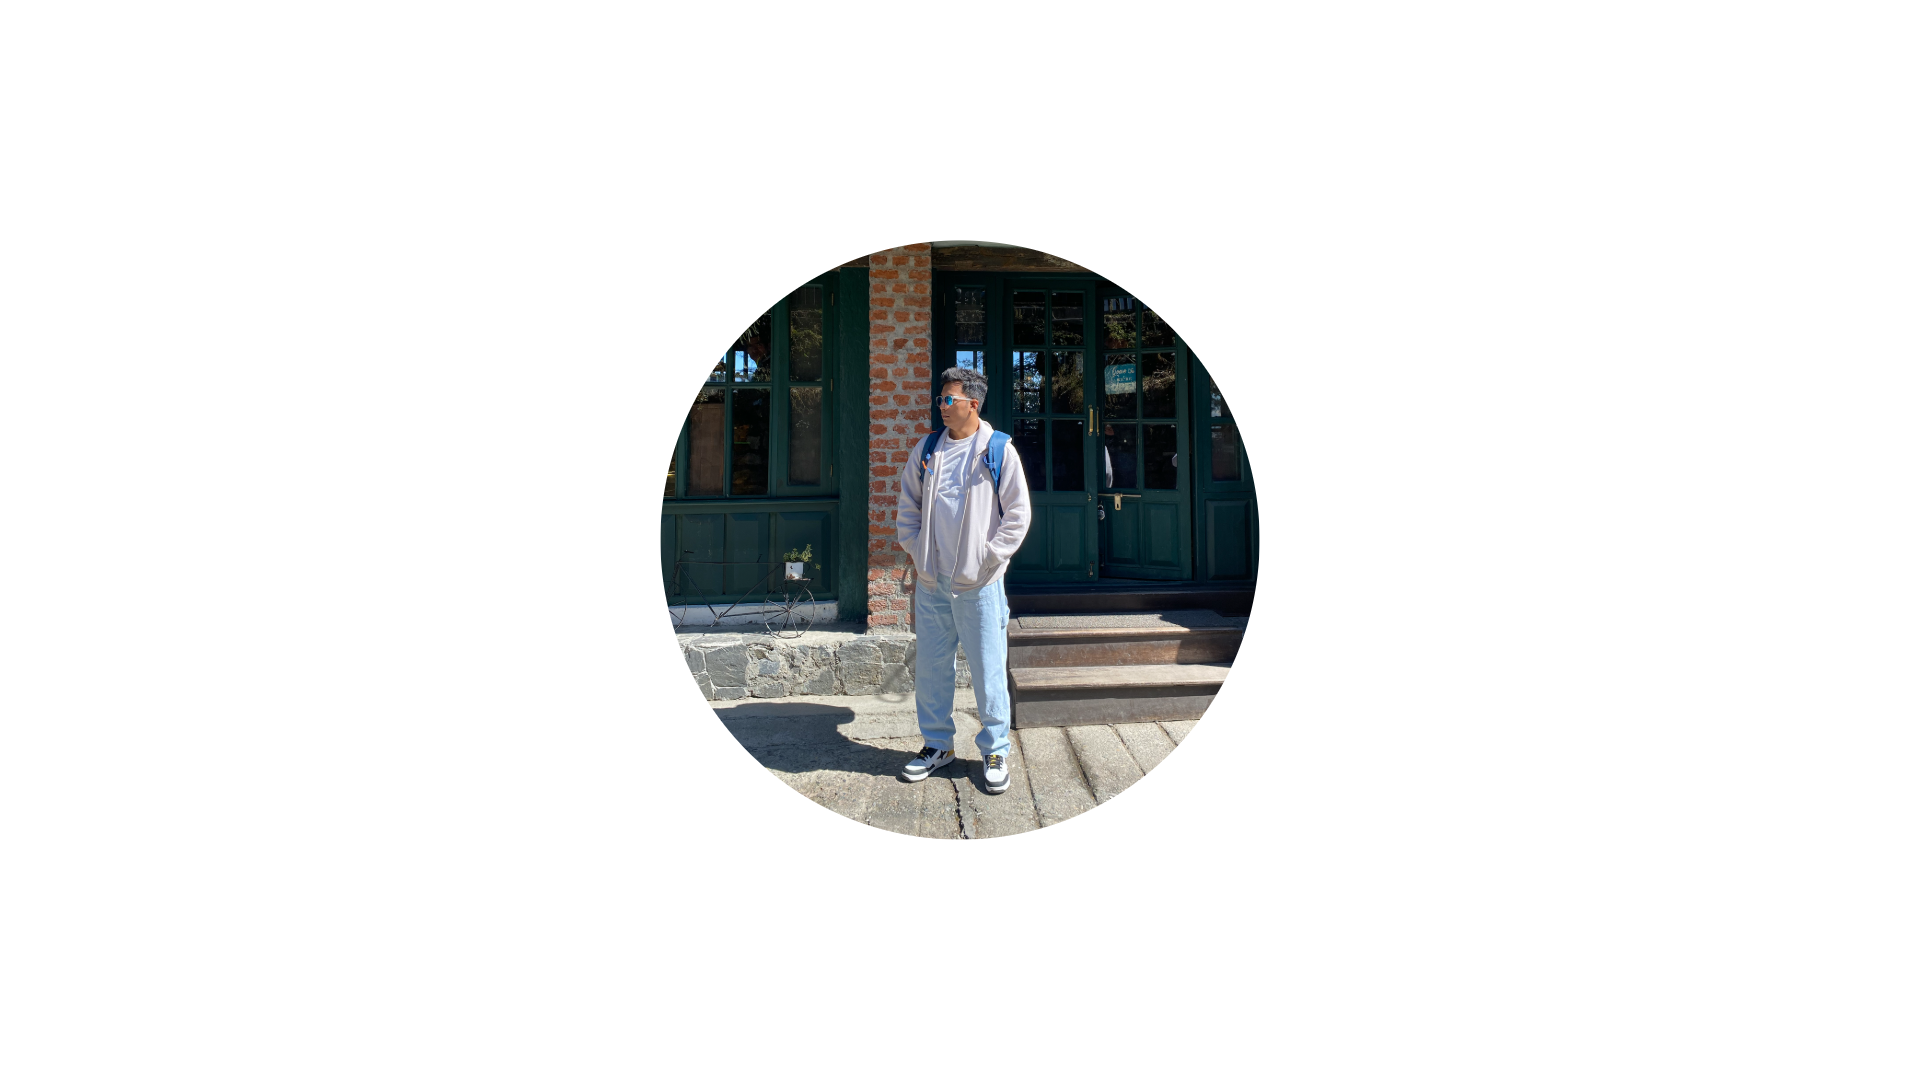
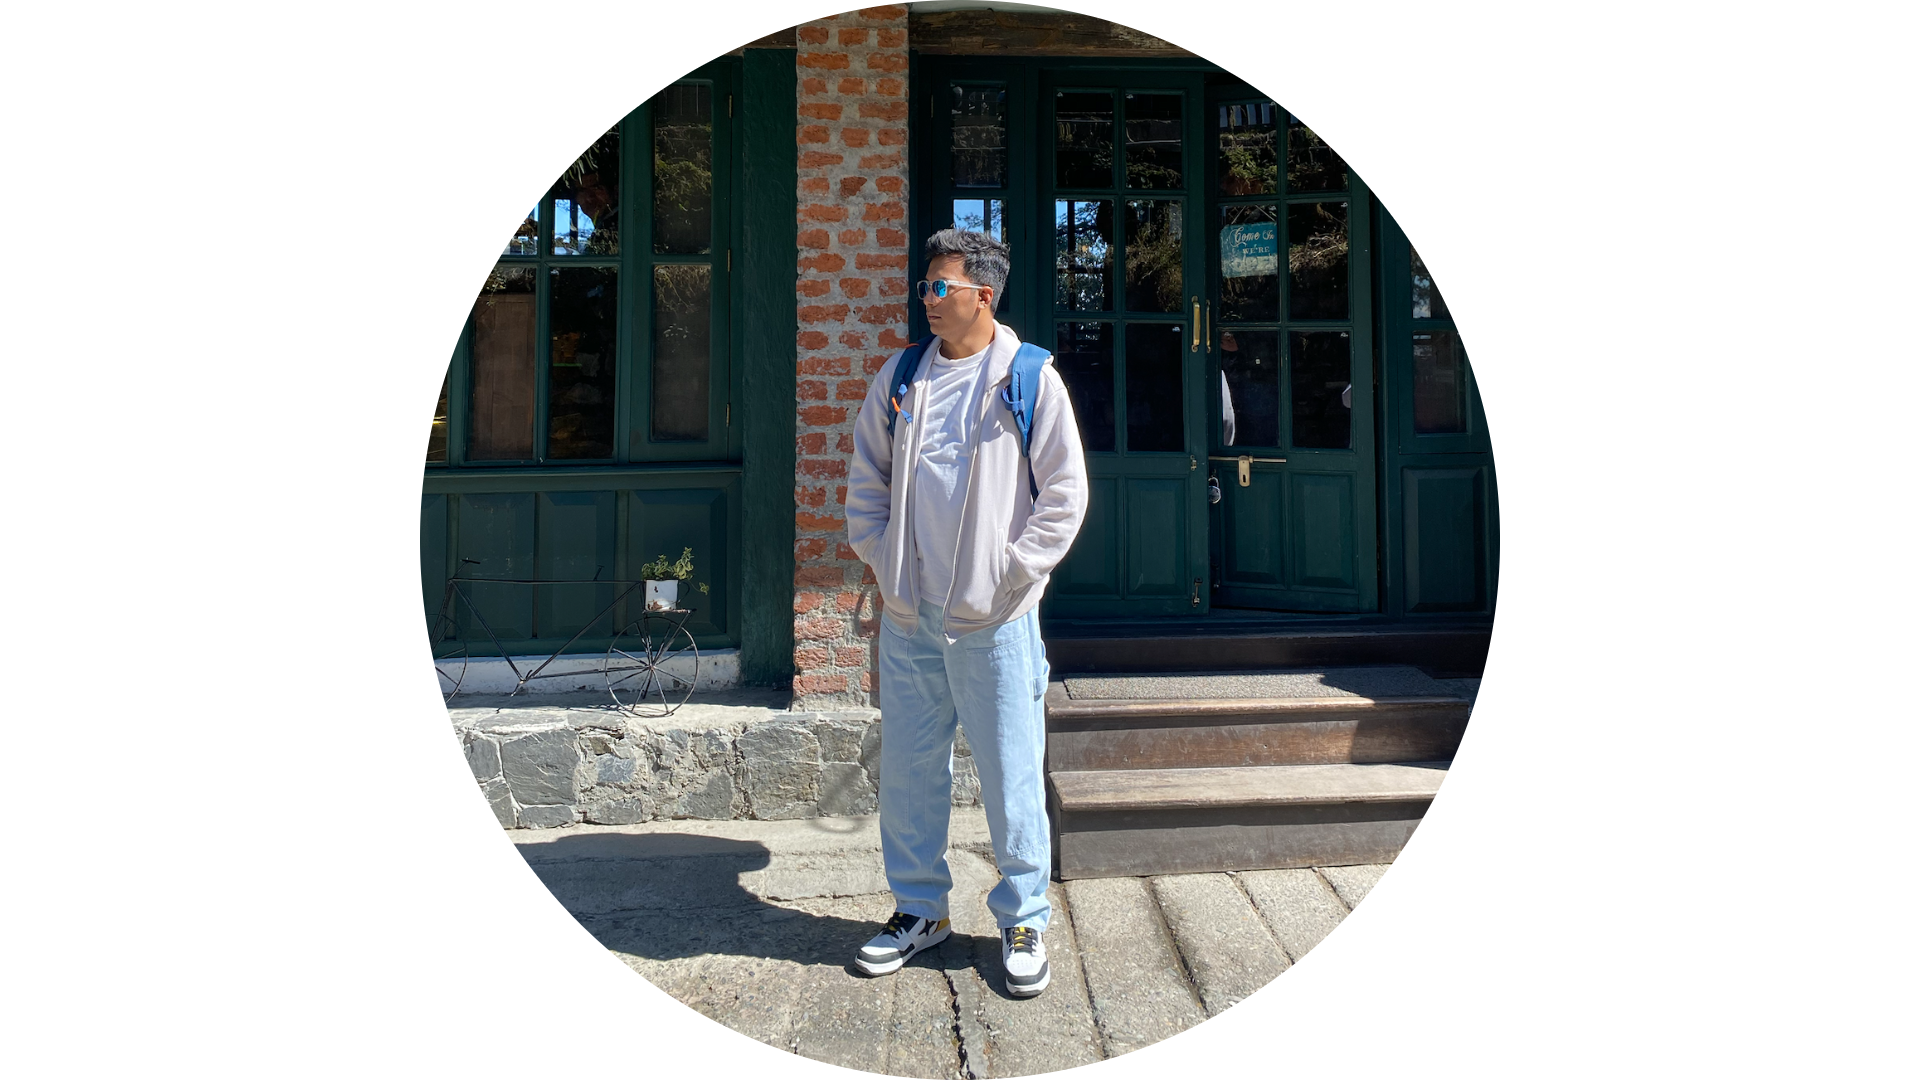
Add more metadata.

diff --git a/pages/index.tsx b/pages/index.tsx
@@ -15,6 +15,7 @@ export default function IndexPage({ node }: NodeBasicPageProps) {
       <Head>
         <title>Abhisek Mazumdar - Freelancer Drupal Developer</title>
         <link rel='icon' href='/icon.png'/>
+        <meta name="title" content="Abhisek Mazumdar - Freelancer Drupal Developer"></meta>
         <meta
           name="description"
           content="I'm a proud Drupal Developer based in Pune, India with 6+ years of experience in site building, backend development, theming, and also WordPress plugin dev. For the past 3 years, I have worked with Drupal distributions and profiles."
@@ -22,7 +23,12 @@ export default function IndexPage({ node }: NodeBasicPageProps) {
         <meta name="keywords" content="Abhisek, Mazumdar, Drupal, React, NextJS" />
         <meta property="og:title" content="Abhisek Mazumdar - Freelancer Drupal Developer" />
         <meta property="og:description" content="I'm a proud Drupal Developer based in Pune, India with 6+ years of experience in site building, backend development, theming, and also WordPress plugin dev. For the past 3 years, I have worked with Drupal distributions and profiles." />
-        <meta property="og:image" content="/icon.png" />
+        <meta property="og:image" content="/abhisek.jpg" />
+        <meta property="twitter:card" content="summary" />
+        <meta property="twitter:url" content="https://www.abhisek.xyz/" />
+        <meta property="twitter:title" content="Abhisek Mazumdar - Freelancer Drupal Developer" />
+        <meta property="twitter:description" content="I'm a proud Drupal Developer based in Pune, India with 6+ years of experience in site building, backend development, theming, and also WordPress plugin dev. For the past 3 years, I have worked with Drupal distributions and profiles." />
+        <meta property="twitter:image" content="/abhisek.jpg" />
       </Head>
       <div>
         <NodeBasicPage node={node} />

diff --git a/pages/[...slug].tsx b/pages/[...slug].tsx
@@ -24,7 +24,12 @@ export default function NodePage({ resource }: NodePageProps) {
         <link rel="icon" href="/icon.png" />
         <meta property="og:title" content={resource.title} />
         <meta property="og:description" content={resource.title} />
-        <meta property="og:image" content="/icon.png" />
+        <meta property="og:image" content="/abhisek.jpg" />
+        <meta property="twitter:card" content="summary" />
+        <meta property="twitter:url" content={`https://www.abhisek.xyz/${resource.id}`} />
+        <meta property="twitter:title" content={resource.title} />
+        <meta property="twitter:description" content={resource.title} />
+        <meta property="twitter:image" content="/abhisek.jpg" />
       </Head>
       {resource.type === "node--page" && <NodeBasicPage node={resource} />}
       {resource.type === "node--article" && <NodeArticle node={resource} />}

diff --git a/pages/thoughts.tsx b/pages/thoughts.tsx
@@ -18,7 +18,12 @@ export default function Thoughts({ nodes }: IndexPageProps) {
         <link rel='icon' href='/icon.png'/>
         <meta property="og:title" content="my latest thoughts - abhisek.xyz" />
         <meta property="og:description" content="Abhisek's console.log()." />
-        <meta property="og:image" content="/icon.png" />
+        <meta property="og:image" content="/abhisek.jpg" />
+        <meta property="twitter:card" content="summary" />
+        <meta property="twitter:url" content="https://www.abhisek.xyz/thoughts" />
+        <meta property="twitter:title" content="my latest thoughts - abhisek.xyz" />
+        <meta property="twitter:description" content="Abhisek's console.log()." />
+        <meta property="twitter:image" content="/abhisek.jpg" />
       </Head>
         <div>
           <h1 className="mb-10 text-6xl font-black">my latest thoughts</h1>

diff --git a/pages/uses.tsx b/pages/uses.tsx
@@ -18,7 +18,12 @@ export default function Use({ node }: NodeBasicPageProps) {
         <link rel='icon' href='/icon.png'/>
         <meta property="og:title" content="what I use - abhisek.xyz" />
         <meta property="og:description" content="Abhisek showing off his nerd side." />
-        <meta property="og:image" content="/icon.png" />
+        <meta property="og:image" content="/abhisek.jpg" />
+        <meta property="twitter:card" content="summary" />
+        <meta property="twitter:url" content="https://www.abhisek.xyz/uses" />
+        <meta property="twitter:title" content="what I use - abhisek.xyz" />
+        <meta property="twitter:description" content="Abhisek showing off his nerd side." />
+        <meta property="twitter:image" content="/abhisek.jpg" />
       </Head>
         <div>
           <h1 className="mb-10 text-6xl font-black">sharing my cool list</h1>
